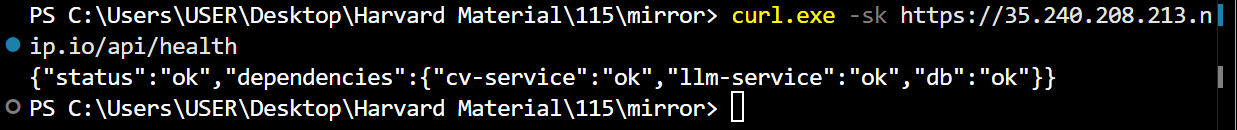
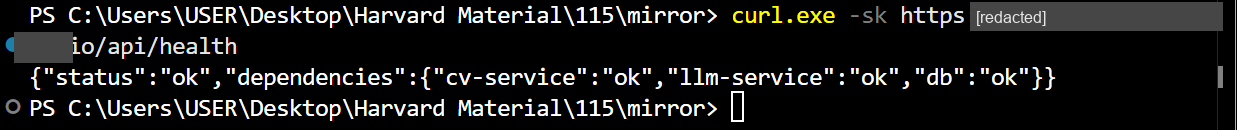
M3-17: address review: redact evidence screenshots, operator-only GPU recovery, qualify image publishing, zsh-safe README commands, self-contained asset test

Changed region(s): [[0.768, 0.0, 1.0, 0.2462], [0.0, 0.2462, 0.0614, 0.4923]]

diff --git a/infra/tests/test_m3_14_assets.py b/infra/tests/test_m3_14_assets.py
@@ -150,6 +150,7 @@ def test_registry_override_resolves_with_nonsecret_values() -> None:
         "DB_USER": "mirror_app",
         "DB_PASSWORD": "ci-only-password",
         "MIRROR_DEMO_PASSWORD": "ci-only-demo-password",
+        "JWT_SIGNING_KEY": "test-only-jwt-signing-key-0123456789abcdef",
         "CADDY_DOMAIN": "mirror.example.test",
         "MIRROR_IMAGE_REGISTRY": "us-central1-docker.pkg.dev",
         "MIRROR_IMAGE_REPOSITORY": "mirror-project/mirror-images",

diff --git a/README.md b/README.md
@@ -11,35 +11,36 @@ Team: Mostafa Galal, Owen Chong, Julie Lander.
 
 | Area | What we added | Where |
 |---|---|---|
-| Face model | v4, retrained on Aff-Wild2 video frames plus FER+ crowd labels. Test macro-F1: video 0.260 → 0.337, FER+ 0.609 → 0.720. A release check blocks any model below 0.609 on FER+ (D-005). | `pipelines/cv-train`, `pipelines/cv-eval`, [model card](docs/model_cards/cv-vit-b16-v4.md) |
+| Face model | v4, retrained on Aff-Wild2 video frames plus FER+ crowd labels. Test macro-F1: video 0.260 -> 0.337, FER+ 0.609 -> 0.720. A release check blocks any model below 0.609 on FER+ (D-005). | `pipelines/cv-train`, `pipelines/cv-eval`, [model card](docs/model_cards/cv-vit-b16-v4.md) |
 | Face signal in the chat | A gate that passes a face reading only when it is steady over 10 seconds (thresholds from a W&B sweep on held-out video), and fusion of face and text into one context note per message | `services/api-gateway/app/gating.py`, `app/fusion.py` |
 | Text and safety | Text-emotion model (D-003). Crisis, medication and camera rules run before the LLM; 162 test messages run in CI | `app/text_emotion.py`, `app/safety.py`, `tests/safety_cases.yaml` |
 | Language model | Plain Qwen 2.5-3B-Instruct on vLLM (D-006), prompt v7 with a question filter, and a LoRA fine-tuning job for Vertex AI | `services/llm-service`, `app/prompt.py`, `pipelines/llm-finetune` |
 | The app | Chat end to end with streamed replies, webcam capture with consent, login with roles from the database (an MS4 task, done early) | `services/frontend`, `app/chat.py`, `app/auth.py` |
 | Data | IEMOCAP as a DVC stage; FairFace fairness audit of v4 | `pipelines/iemocap-data`, `pipelines/fairness-audit` |
-| Deployment | Every merge to `main` publishes images tagged with the commit to Artifact Registry; a GPU VM runs them behind Caddy (HTTPS) | `.github/workflows/publish-artifact-registry-images.yml`, `infra/` |
+| Deployment | A merge to `main` publishes images tagged with the commit to Artifact Registry when the repository's Artifact Registry variables are configured (otherwise the workflow skips publishing); a GPU VM runs them behind Caddy (HTTPS) | `.github/workflows/publish-artifact-registry-images.yml`, `infra/` |
 | Monitoring | Container logs in Cloud Logging; private Prometheus metrics | [`docs/monitoring.md`](docs/monitoring.md) |
 
 Screenshots of the running system: [`docs/evidence/`](docs/evidence/README.md) (MS3 section).
 
 ### Reproduce a training run
 
-**Face model, tracked in W&B** (log in once with `wandb login`; runs go to the `mirror` project). The v4 recipe, from `pipelines/cv-train`, after building the data with `mirror-prepare-affwild2` and `mirror-prepare-ferplus`:
+**Face model, tracked in W&B** (log in once with `wandb login`; runs go to the `mirror` project). A smoke run:
 
 ```bash
-uv run --no-sync mirror-cv-train --params params_m3-01.yaml --data-root ../../data/processed \
-  --init-checkpoint /secure/path/vit_b16_v3_best.pth --output /secure/path/vit_b16_v4.pth \
-  --set data.sources.fer2013.dir=ferplus/v2 --set data.sources.fer2013.soft_labels=true \
-  --set scheduler.name=cosine --set training.epochs=8 --set training.ema_decay=0.999 --wandb-project mirror
+cd pipelines/cv-train
+uv sync
+uv run mirror-cv-train --params params.yaml --data-dir ../../data/processed/fer2013/v1 --output outputs/smoke.pth --epochs 1 --max-batches 2 --no-pretrained
 ```
 
-Then check it with `mirror-cv-release-check` in `pipelines/cv-eval`. All 8 runs and their settings are in the [cv-train README](pipelines/cv-train/README.md).
+This smoke run uses FER-2013 only (restored by `dvc pull`). The full v4 recipe needs locally built Aff-Wild2 frames (licensed) and the v3 checkpoint; see the [cv-train README](pipelines/cv-train/README.md). Check a trained model with `mirror-cv-release-check` in `pipelines/cv-eval`. All 8 v4 runs and their settings are in the cv-train README.
 
 **Language model on Vertex AI** (serverless, one L4 GPU, W&B key from Secret Manager), from `pipelines/llm-finetune`:
 
+The first command only prints the job spec; the second submits it.
+
 ```bash
 uv run --extra vertex mirror-llm-finetune submit \
-  --data-uri gs://mirror-ac215-data/data/processed/persona/v1 --dry-run   # prints the job spec
+  --data-uri gs://mirror-ac215-data/data/processed/persona/v1 --dry-run
 uv run --extra vertex mirror-llm-finetune submit \
   --data-uri gs://mirror-ac215-data/data/processed/persona/v1
 ```
@@ -50,15 +51,17 @@ The job is set up and its dry run works, but **no Vertex run has completed yet**
 
 We use DVC rather than Vertex AI Pipelines. `dvc.yaml` rebuilds the data stages (`fer2013_preprocess`, `persona_clean`, `iemocap_build`), each reproducible by hash; training and evaluation then run as the tracked jobs above.
 
+`dvc repro` rebuilds only the stages whose code, parameters or inputs changed; `dvc status` should then print "Data and pipelines are up to date."
+
 ```bash
 dvc pull
-dvc repro        # rebuilds only the stages whose code, parameters or inputs changed
-dvc status       # "Data and pipelines are up to date."
+dvc repro
+dvc status
 ```
 
 ### Deploy
 
-1. Merge to `main`: GitHub Actions publishes every image tagged with the commit SHA.
+1. Merge to `main`: GitHub Actions publishes every image tagged with the commit SHA, if the Artifact Registry variables are configured (otherwise it skips publishing).
 2. On the GPU VM: check out that commit, set `MIRROR_IMAGE_TAG` to it in `infra/.env.prod`, and run `bash infra/deploy-stage-b.sh`. It checks that the VM can read the model and write logs, pulls the images by tag and starts them with health checks.
 3. Stop the VM after use: it costs about $0.70 an hour while running.
 
@@ -76,8 +79,10 @@ All endpoints are described in [`docs/contracts/api-gateway.openapi.yaml`](docs/
 | `POST /sessions/{id}/messages` | One message in; the reply streams back as `token` events, then a `done` event with the context, or one `crisis` event |
 | `GET /health` | The gateway and its dependencies |
 
+Locally the API is `http://localhost:8000`; on the deployed site use `https://<CADDY_DOMAIN>/api`.
+
 ```bash
-API=http://localhost:8000            # deployed: https://<CADDY_DOMAIN>/api
+API=http://localhost:8000
 TOKEN=$(curl -s $API/auth/login -H 'Content-Type: application/json' \
   -d '{"email":"patient.alex@example.test","password":"<MIRROR_DEMO_PASSWORD>"}' | jq -r .access_token)
 SID=$(curl -s $API/sessions -H "Authorization: Bearer $TOKEN" -H 'Content-Type: application/json' \
@@ -116,16 +121,16 @@ Start with [`docs/PROJECT_CONTEXT.md`](docs/PROJECT_CONTEXT.md). It covers:
 The local stack (frontend, api-gateway, llm-service in mock mode, db) runs with Docker Compose. Details,
 configuration and troubleshooting are in [`infra/README.md`](infra/README.md).
 
-For the production deployment on a GPU VM, see [Deploy](#deploy) below.
+For the production deployment on a GPU VM, see [Deploy](#deploy) above.
 
 ```bash
 git clone https://github.com/mirror-ac215/AC215_Mirror.git
 cd AC215_Mirror
-cp infra/.env.example infra/.env   # fill in the two values
+cp infra/.env.example infra/.env
 docker compose -f infra/compose.yml up --build -d
 ```
 
-Then open http://localhost:3000 (app) and http://localhost:8000/docs (gateway API).
+Fill in the two values in `infra/.env` before starting. Then open http://localhost:3000 (app) and http://localhost:8000/docs (gateway API).
 `cv-service` is opt-in (`--profile cv`) because it downloads the model from GCS; see `infra/README.md`.
 
 ## Data setup with DVC
@@ -140,7 +145,7 @@ gcloud auth application-default login
 dvc pull
 ```
 
-`dvc pull` restores these raw inputs, plus the processed outputs of both pipeline stages (`data/processed/fer2013/v1`, `data/processed/persona/v1`):
+`dvc pull` restores these raw inputs, plus the processed outputs of all three pipeline stages (`data/processed/fer2013/v1`, `data/processed/persona/v1`, `data/processed/iemocap/v1`):
 
 ```text
 data/raw/fer2013/archive.zip
@@ -148,16 +153,17 @@ data/raw/persona/jbp_clean_full.csv
 data/raw/persona/jbp_train.csv
 data/raw/persona/jbp_val.csv
 data/raw/persona/jbp_test.csv
+data/raw/iemocap/IEMOCAP_full_release.tar.gz
 ```
 
 To check that code, parameters and data are in sync, and to rebuild a stage from the raw data:
 
 ```bash
-dvc status                      # "Data and pipelines are up to date."
-dvc repro persona_clean         # or fer2013_preprocess; `dvc repro` runs both
+dvc status
+dvc repro persona_clean
 ```
 
-The stages are defined in `dvc.yaml` (`fer2013_preprocess`: FER-2013 split and resize; `persona_clean`: persona filter, dedupe and split). Rebuilding gives byte-identical outputs on Linux, macOS and Windows, so `dvc.lock` does not change.
+The stages are defined in `dvc.yaml` (`fer2013_preprocess`: FER-2013 split and resize; `persona_clean`: persona filter, dedupe and split; `iemocap_build`: IEMOCAP evaluation table). Rebuilding gives byte-identical outputs on Linux, macOS and Windows, so `dvc.lock` does not change.
 
 The DVC remote is `mirror_gcs` at `gs://mirror-ac215-data/dvc`. Do not run `git add data/`; commit only the DVC configuration and `.dvc` metadata files.
 

diff --git a/infra/README.md b/infra/README.md
@@ -245,6 +245,9 @@ Do not send sensitive or patient-like content for this smoke test.
 
 ### When the GPU zone has no capacity
 
+These steps create paid cloud resources, so only the project's cloud operator (Mostafa) runs them.
+Anyone else who finds the zone out of capacity should tell Mostafa rather than create resources.
+
 T4 GPUs are often out of stock. On Nov 11 we moved the deployment without rebuilding the VM:
 snapshot the stopped VM's boot disk, then create a VM from that snapshot in any zone of a region
 where the custom VPC has a subnet (us-east1, us-central1, europe-west1, asia-southeast1), trying a

diff --git a/docs/evidence/README.md b/docs/evidence/README.md
@@ -1,6 +1,6 @@
 # MS3 evidence: the deployed system
 
-Recorded on **Nov 11, 2026** on the GPU VM in GCP (`asia-southeast1-c`, one NVIDIA L4) running commit `0a7bb81`. Camera previews and personal browser details are blurred.
+Recorded on **Nov 11, 2026** on a GPU VM in GCP (one NVIDIA L4) running commit `0a7bb81`. Camera previews are blurred. The site address, the VM's name and user folder, its location, and log and request IDs are redacted.
 
 | File | What it proves |
 |---|---|
